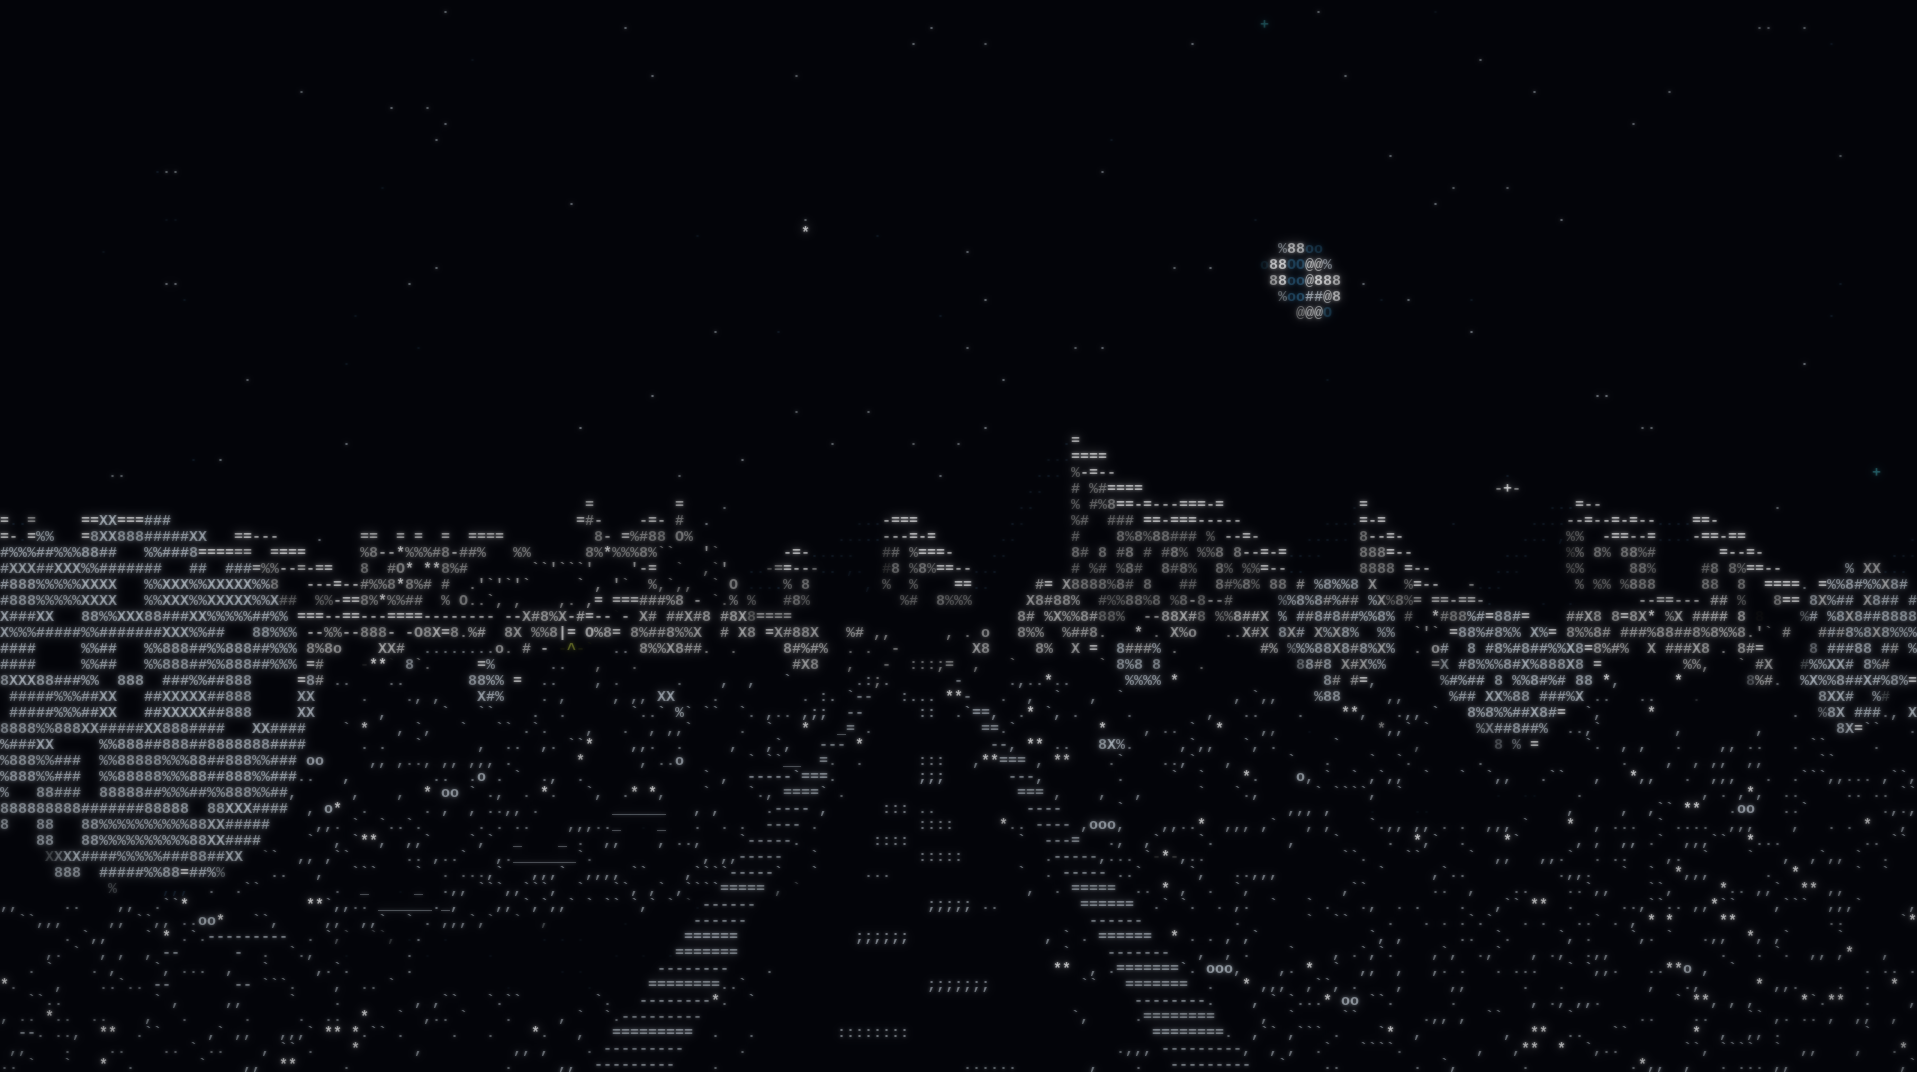
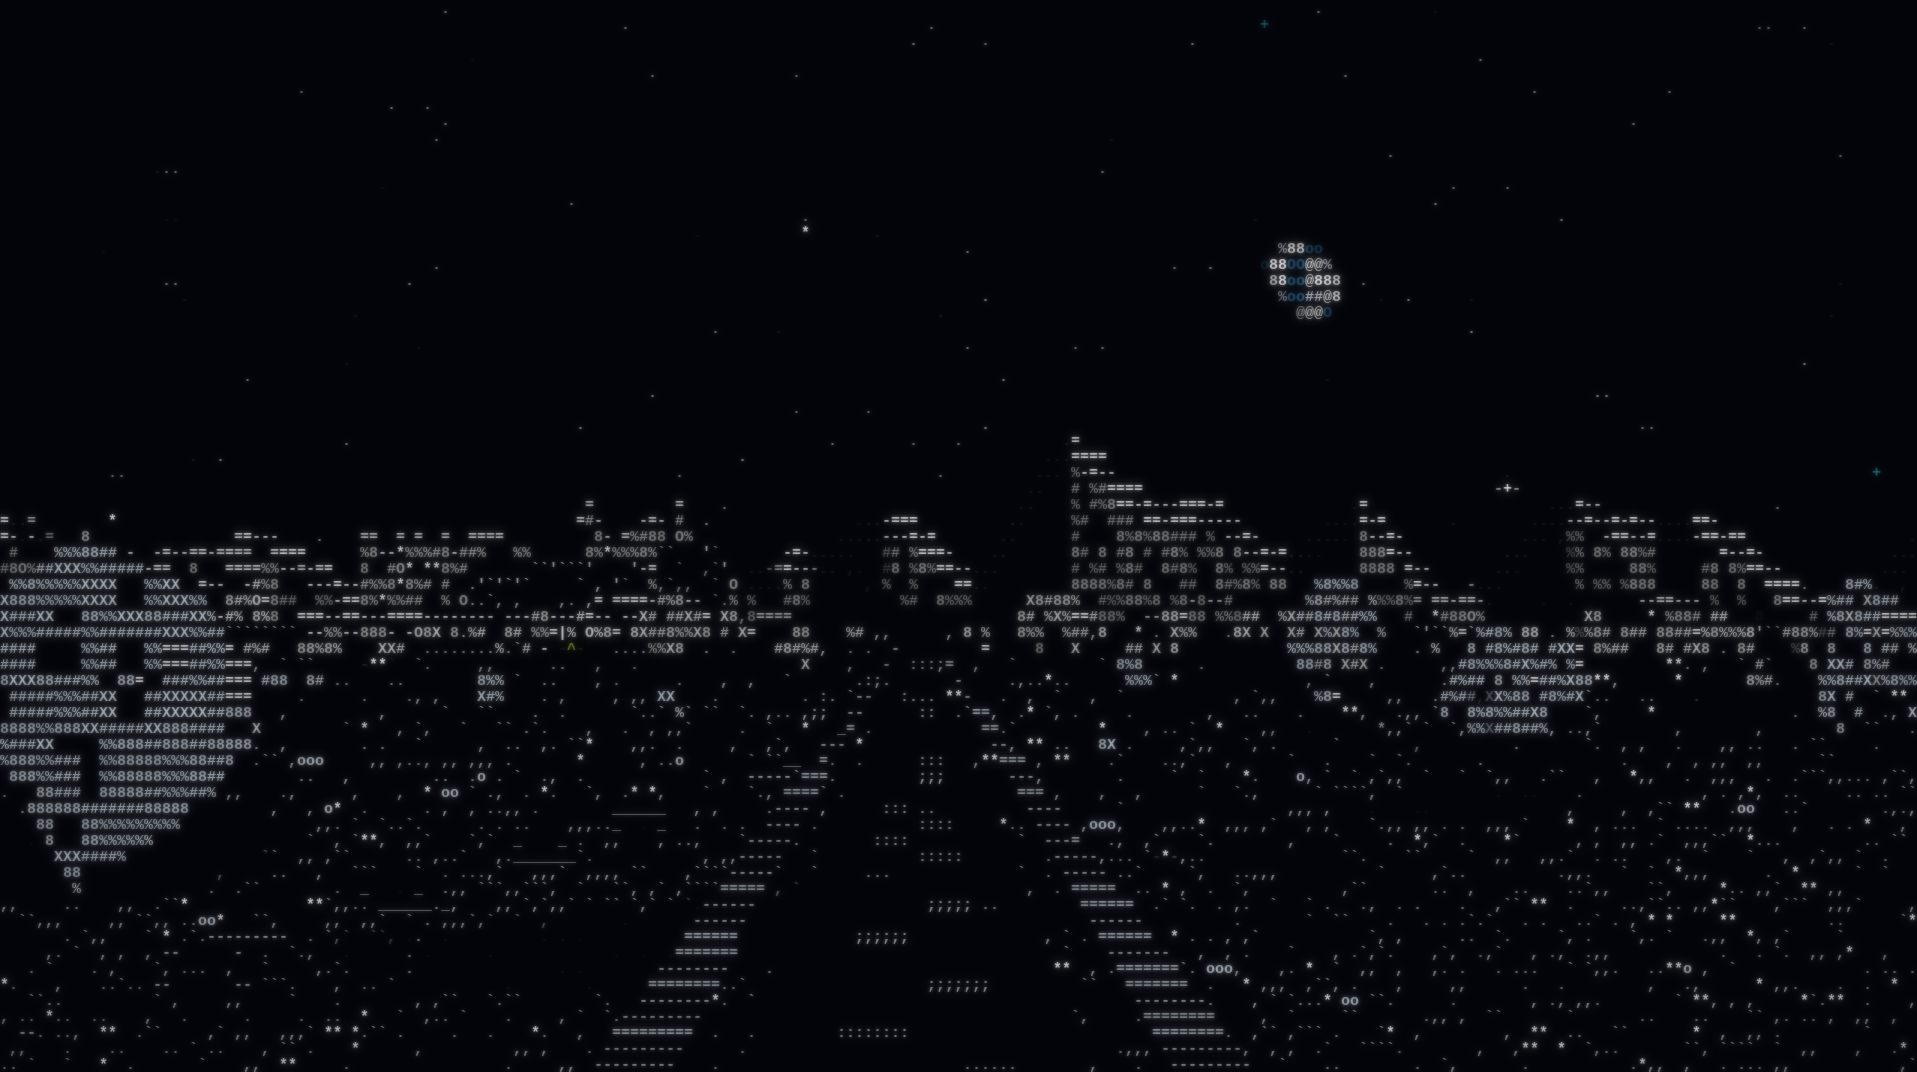
Two storeys on the frontier, and no round rocks on the Moon
TALL BUILDINGS IN AN 1880S TOWN. surf_west's facade stacked its window
band with `storey = floor(uy / st.up)` and no cap, so it drew as many
rows of glass as the map gave it height — and city.js's landmark roll
gave it 14-24 m. The result was eight-storey window grids on a main
street. The facade now draws two storeys and nothing above them, so a
tall building is a false front or a tower of blank boarded wall, which
is what a tall frontier building is. Landmarks come down to 9-14 m and
get rarer; the verticality that world is entitled to comes off the roof
in the crowns element. Every cell over 12 m is now rock, not building.

MINI MOONS ON THE MOON. moon_ground drew each boulder as a filled disc
with a smooth sphere normal and a specular ring round its limb — which
is a picture of a small moon, scattered a few hundred times across a
lunar plain. Nothing there is round: lunar rocks are impact breccia
with no weathering to wear the corners off. Boulders are now a seven-
vertex polygon with exact chord edges, flat per-facet shading so two
faces of the same rock step hard against each other, and the specular
on whichever facet faces the sun instead of round a limb. The sub-cell
branch stops using 'o', which was the same mistake one scale down.

domshim 288/288, photosensitivity gates pass, city night byte-identical.

diff --git a/src/elements/moon_ground.js b/src/elements/moon_ground.js
@@ -1087,20 +1087,40 @@
   }
 
   /* ---- the rock ------------------------------------------------------------------------------------
-   * A SPHERE WITH A REAL TERMINATOR ON IT, which is worth the eight lines it costs. Every other
-   * object in the frontier is a flat face with one normal and is lit or not; a boulder presents
-   * every normal at once, and the line where the surface turns away from the sun is the only thing
-   * that says it is round. The normal at a screen offset (u, v) inside the disc is
+   * AN ANGULAR FRAGMENT, AND EMPHATICALLY NOT A SPHERE. The first cut of this drew each boulder as a
+   * filled disc — `r2 = u*u + v*v; if (r2 > 1) continue;` — with a smooth sphere normal
+   * (u*right - v*up + sqrt(1-r2)*(-viewdir)) and a specular ring round its limb. The arithmetic was
+   * right and the object was wrong: what it produced was a small round grey body with a terminator
+   * across it and a bright rim, which is a picture of a MOON. Scattering a few hundred of them
+   * across a lunar plain read exactly as it sounds.
    *
-   *     n = u*right - v*up + sqrt(1 - u^2 - v^2) * (-viewdir)
+   * Nothing on the Moon is round. Lunar surface rocks are impact breccia and fractured basalt:
+   * they are chipped, they are faceted, and they have corners. There is also no weathering to round
+   * them off — no water, no wind, no frost — so a fragment that broke ten million years ago still
+   * has the shape it broke in. A sphere is the one silhouette that cannot occur.
    *
-   * — the first two terms are the tangent plane, the third is how far the surface bulges toward the
-   * eye — and n.sun is the whole lighting model.
+   * So the outline is a POLYGON: seven vertices at hashed radii, with straight chords between them,
+   * and the boundary radius along any ray is the exact chord intersection rather than a constant.
+   * The shading is FLAT PER FACET — one normal for each sector, held constant across it — which is
+   * what puts a hard-edged tonal step between two faces of the same rock and is the single thing
+   * that says "angular" at character resolution. The specular is on the facet that happens to face
+   * the sun rather than round a limb, because a facet catches the light and a limb is a thing
+   * spheres have.
    *
-   * WITH THE SUN BEHIND THE WALK, MOST ROCKS ARE FULLY LIT AND THE TERMINATOR IS OFF THE LIMB. That
-   * is not a bug and it is not a waste: it is exactly what down-sun Apollo photography looks like,
-   * it is why the crews were told to shoot down-sun, and it is why the shadows above have to carry
-   * the relief. Turn round and the same rocks are black cut-outs. */
+   * WITH THE SUN BEHIND THE WALK, MOST ROCKS ARE FULLY LIT AND ONLY ONE OR TWO FACETS TURN AWAY.
+   * That is not a bug and not a waste: it is what down-sun Apollo photography looks like, it is why
+   * the crews were told to shoot down-sun, and it is why the shadows above carry the relief. Turn
+   * round and the same rocks are black cut-outs with a chipped edge. */
+  var NFACET = 7, TAU_F = 6.283185307;
+  /* Facet scratch, allocated once for the life of the page: drawRock runs for every rock in the
+   * frame and this file is allocation-free in draw() by contract. */
+  var FU = new Float64Array(NFACET), FV = new Float64Array(NFACET), FB = new Float64Array(NFACET);
+
+  /* The vertex radius of facet k, 0.58-1.00 of the rock's nominal size. The spread is what stops
+   * seven equal radii from being a heptagon, which at this cell size is a circle again. */
+  function facetR(k, sd) {
+    return 0.58 + hash2(((k % NFACET) + NFACET) % NFACET, 3, sd ^ 0x5C13) * 0.42;
+  }
   function drawRock(f, px, pz, r, sX, sZ, sd) {
     if (!project(px, r, pz)) return;
     var cx = PJ.x, cy = PJ.y, d = PJ.d, w = PJ.w;
@@ -1125,7 +1145,11 @@
       if (lk < 0.25) return;
       var hs = hash2(Math.floor(px * 4), Math.floor(pz * 4), sd ^ 0x71);
       var l1 = litOf(0.55 + hs * 0.45, d, hs);
-      emit(f, Math.floor(cx), Math.floor(cy), hs < 0.4 ? G_o : G_DOT, l1.col, l1.lum * lk, d);
+      /* NOT G_o. At one cell the glyph IS the silhouette, and 'o' is a ring — the same mistake as
+       * the disc one scale up. A chip of rock under a cell across is a blob of ink, which is what
+       * '%' and '8' are and what '.' is when it is smaller still. */
+      emit(f, Math.floor(cx), Math.floor(cy), hs < 0.35 ? G_PCT : (hs < 0.7 ? G_8 : G_DOT),
+           l1.col, l1.lum * lk, d);
       return;
     }
 
@@ -1142,16 +1166,53 @@
     if (x0 + dx1 > V.cols - 1) dx1 = V.cols - 1 - x0;
     if (y0 + dy0 < 0) dy0 = -y0;
     if (y0 + dy1 > V.rows - 1) dy1 = V.rows - 1 - y0;
+    /* The seven facet normals, resolved once per rock rather than once per cell. Each is the
+     * outward direction of its own chord, tilted toward the eye by a hashed amount so no two faces
+     * of the same rock catch the light equally — which is the whole read. `nb` is how far the facet
+     * leans toward the viewer; a low value is a face seen almost edge-on and it is what makes one
+     * side of a rock go dark while the rest stays lit. */
+    var fu = FU, fv = FV, fb = FB, fk;
+    for (fk = 0; fk < NFACET; fk++) {
+      var mid = (fk + 0.5) * TAU_F / NFACET;
+      var lean = 0.34 + hash2(fk, 7, sd ^ 0x6D2) * 0.52;
+      var cxn = Math.cos(mid) * lean, cyn = Math.sin(mid) * lean;
+      var cbn = Math.sqrt(1 - lean * lean * 0.92);
+      var nn = Math.sqrt(cxn * cxn + cyn * cyn + cbn * cbn);
+      fu[fk] = cxn / nn; fv[fk] = cyn / nn; fb[fk] = cbn / nn;
+    }
+    /* Which facet is most nearly square-on to the sun; that one gets the specular, in place of the
+     * limb ring a sphere would have had. */
+    var bestF = 0, bestD = -2;
+    for (fk = 0; fk < NFACET; fk++) {
+      var bd = fu[fk] * sr - fv[fk] * su + fb[fk] * sf;
+      if (bd > bestD) { bestD = bd; bestF = fk; }
+    }
+
     for (dy = dy0; dy <= dy1; dy++) {
       for (dx = dx0; dx <= dx1; dx++) {
         var u = (x0 + dx - cx) / rw, v = (y0 + dy - cy) / rh;
         var r2 = u * u + v * v;
-        if (r2 > 1.0) continue;
-        var bulge = Math.sqrt(1 - r2);
-        /* Per-cell depth: the near face of the sphere, so the rock's own silhouette does not
-         * overwrite the ground in front of its base. */
+        if (r2 > 1.0) continue;                        // cheap reject before the polygon test
+        /* ---- THE POLYGON, and it is an exact chord intersection rather than a stepped radius.
+         * Quantising the boundary to one radius per sector gives a shape made of arcs, which is a
+         * circle with dents in it; the straight chord between two vertices is what gives a rock a
+         * flat edge and a corner. For a ray at angle t between vertices at a0 and a1 with radii r0
+         * and r1, the chord is hit at  r0*r1*sin(d) / (r0*sin(t-a0) + r1*sin(a1-t)). */
+        var ang = Math.atan2(v, u); if (ang < 0) ang += TAU_F;
+        var tt = ang * NFACET / TAU_F;
+        var kk0 = Math.floor(tt), ff = tt - kk0;
+        var a0 = kk0 * TAU_F / NFACET, dA = TAU_F / NFACET;
+        var r0 = facetR(kk0, sd), r1 = facetR(kk0 + 1, sd);
+        var den = r0 * Math.sin(ff * dA) + r1 * Math.sin(dA - ff * dA);
+        var lim = den > 1e-6 ? (r0 * r1 * Math.sin(dA)) / den : 1;
+        if (r2 > lim * lim) continue;
+
+        var fi = kk0 % NFACET;
+        /* Per-cell depth: a mild bulge, for ordering only — enough that the rock's own silhouette
+         * does not overwrite the ground in front of its base, without reintroducing a sphere. */
+        var bulge = (1 - r2) * 0.55;
         var dd = d - bulge * r;
-        var dot = u * sr - v * su + bulge * sf;
+        var dot = fu[fi] * sr - fv[fi] * su + fb[fi] * sf;
         var litK = clamp(0.5 + 3.0 * dot, 0, 1);
         /* Keyed on the rock's own surface parameterisation, not on the screen cell: the field has to
          * be welded to the rock or it crawls as the camera walks past. It is not perfect — u and v
@@ -1172,7 +1233,11 @@
          * fracture plane and is a genuine specular. About 6% of the painted cells of an object that
          * is itself a small part of the frame, which is where a slice of the print's hot budget is
          * meant to come from. */
-        if (r2 > 0.80 && hv < 0.30) {
+        /* THE SPECULAR IS ON A FACET, NOT ROUND A LIMB. `r2 > 0.80` put a bright annulus at the
+         * edge of every rock, which is the single most sphere-like mark available and was half of
+         * why these read as little moons. A fracture plane that happens to face the sun glints;
+         * that is one face of the rock, and it is a patch rather than a ring. */
+        if (fi === bestF && bestD > 0.15 && hv < 0.26) {
           var ls = specOf(0.55 + hv, d);
           emit(f, x0 + dx, y0 + dy, G_EQ, ls.col, ls.lum * soft, dd);
           continue;

diff --git a/index.html b/index.html
@@ -824,7 +824,7 @@ var CC = (function () {
 
     DIST_WEST = [
       { name: 'main',     hue: P.warm,   mix: P.amber,  mixP: 0.72, accent: P.amber, styles: [0, 2, 0, 2],
-        hMin: 6.2, hMax: 10, lit: 0.20, signP: 0.66, landmark: 0.022, w: 0.21,
+        hMin: 6.2, hMax: 10, lit: 0.20, signP: 0.66, landmark: 0.012, w: 0.21,
         vacant: 0.07, butte: 0 },
       { name: 'dust',     hue: P.slate,  mix: P.white,  mixP: 0.74, accent: P.white, styles: [0, 1, 5],
         hMin: 5.0, hMax: 8.5, lit: 0.11, signP: 0.18, landmark: 0.004, w: 0.19,
@@ -837,7 +837,7 @@ var CC = (function () {
         vacant: 0.30, butte: 0.004 },
 
       { name: 'mission',  hue: P.white,  mix: P.amber,  mixP: 0.60, accent: P.spring, styles: [3, 4, 2],
-        hMin: 5.4, hMax: 9.5, lit: 0.14, signP: 0.07, landmark: 0.050, w: 0.07,
+        hMin: 5.4, hMax: 9.5, lit: 0.14, signP: 0.07, landmark: 0.022, w: 0.07,
         vacant: 0.22, butte: 0 },
       { name: 'range',    hue: P.slate,  mix: P.ember,  mixP: 0.62, accent: P.ember, styles: [4, 1, 4],
         hMin: 4.4, hMax: 7.5, lit: 0.06, signP: 0.02, landmark: 0.000, w: 0.26,
@@ -904,7 +904,8 @@ var CC = (function () {
     alleyMin: 9, alleyP: 0.52, alleyDeepMin: 10, alleyDeepP: 0.40,
     plazaP: 0.20, plazaBigP: 0.34, plazaR: 6, plazaRVar: 9,
     vacant: 0.14, setbackP: 0.68, podMin: 0, podVar: 0, falseFront: 1,
-    lmMin: 14, lmVar: 10, crownTall: 13, DG: 34, sky: 1,
+
+    lmMin: 9, lmVar: 5, crownTall: 13, DG: 34, sky: 1,
     butteMin: 9, butteVar: 23, rockStyle: 6,
     styleCh: STYLE_CH_WEST, signCh: SIGN_CH_WEST, styleBase: 0,
     setbackMode: 'falsefront', signShape: 'board', signPalette: 'painted'
@@ -3023,7 +3024,8 @@ var CC = (function () {
     var uy = v - (st.gnd + 0.52);
     var storey = Math.floor(uy / st.up);
     var sv = uy - storey * st.up;
-    if (storey >= 0 && sv > 0.55 && sv < 0.55 + st.winH) {
+
+    if (storey >= 0 && storey < 2 && sv > 0.55 && sv < 0.55 + st.winH) {
       var cw = st.winW / st.bay, c0 = 0.5 - cw * 0.5, c1 = 0.5 + cw * 0.5;
       if (fu > c0 && fu < c1) {
         var wh = hash2(bay * 7 + storey, sd, 0x8D2);
@@ -6400,6 +6402,13 @@ var CC = (function () {
     }
   }
 
+  var NFACET = 7, TAU_F = 6.283185307;
+
+  var FU = new Float64Array(NFACET), FV = new Float64Array(NFACET), FB = new Float64Array(NFACET);
+
+  function facetR(k, sd) {
+    return 0.58 + hash2(((k % NFACET) + NFACET) % NFACET, 3, sd ^ 0x5C13) * 0.42;
+  }
   function drawRock(f, px, pz, r, sX, sZ, sd) {
     if (!project(px, r, pz)) return;
     var cx = PJ.x, cy = PJ.y, d = PJ.d, w = PJ.w;
@@ -6420,7 +6429,9 @@ var CC = (function () {
       if (lk < 0.25) return;
       var hs = hash2(Math.floor(px * 4), Math.floor(pz * 4), sd ^ 0x71);
       var l1 = litOf(0.55 + hs * 0.45, d, hs);
-      emit(f, Math.floor(cx), Math.floor(cy), hs < 0.4 ? G_o : G_DOT, l1.col, l1.lum * lk, d);
+
+      emit(f, Math.floor(cx), Math.floor(cy), hs < 0.35 ? G_PCT : (hs < 0.7 ? G_8 : G_DOT),
+           l1.col, l1.lum * lk, d);
       return;
     }
 
@@ -6432,15 +6443,43 @@ var CC = (function () {
     if (x0 + dx1 > V.cols - 1) dx1 = V.cols - 1 - x0;
     if (y0 + dy0 < 0) dy0 = -y0;
     if (y0 + dy1 > V.rows - 1) dy1 = V.rows - 1 - y0;
+
+    var fu = FU, fv = FV, fb = FB, fk;
+    for (fk = 0; fk < NFACET; fk++) {
+      var mid = (fk + 0.5) * TAU_F / NFACET;
+      var lean = 0.34 + hash2(fk, 7, sd ^ 0x6D2) * 0.52;
+      var cxn = Math.cos(mid) * lean, cyn = Math.sin(mid) * lean;
+      var cbn = Math.sqrt(1 - lean * lean * 0.92);
+      var nn = Math.sqrt(cxn * cxn + cyn * cyn + cbn * cbn);
+      fu[fk] = cxn / nn; fv[fk] = cyn / nn; fb[fk] = cbn / nn;
+    }
+
+    var bestF = 0, bestD = -2;
+    for (fk = 0; fk < NFACET; fk++) {
+      var bd = fu[fk] * sr - fv[fk] * su + fb[fk] * sf;
+      if (bd > bestD) { bestD = bd; bestF = fk; }
+    }
+
     for (dy = dy0; dy <= dy1; dy++) {
       for (dx = dx0; dx <= dx1; dx++) {
         var u = (x0 + dx - cx) / rw, v = (y0 + dy - cy) / rh;
         var r2 = u * u + v * v;
         if (r2 > 1.0) continue;
-        var bulge = Math.sqrt(1 - r2);
 
+        var ang = Math.atan2(v, u); if (ang < 0) ang += TAU_F;
+        var tt = ang * NFACET / TAU_F;
+        var kk0 = Math.floor(tt), ff = tt - kk0;
+        var a0 = kk0 * TAU_F / NFACET, dA = TAU_F / NFACET;
+        var r0 = facetR(kk0, sd), r1 = facetR(kk0 + 1, sd);
+        var den = r0 * Math.sin(ff * dA) + r1 * Math.sin(dA - ff * dA);
+        var lim = den > 1e-6 ? (r0 * r1 * Math.sin(dA)) / den : 1;
+        if (r2 > lim * lim) continue;
+
+        var fi = kk0 % NFACET;
+
+        var bulge = (1 - r2) * 0.55;
         var dd = d - bulge * r;
-        var dot = u * sr - v * su + bulge * sf;
+        var dot = fu[fi] * sr - fv[fi] * su + fb[fi] * sf;
         var litK = clamp(0.5 + 3.0 * dot, 0, 1);
 
         var hv = hash2(Math.floor((u + 1.2) * 9), Math.floor((v + 1.2) * 9), sd ^ 0x72);
@@ -6453,7 +6492,7 @@ var CC = (function () {
         }
         var soft = softOf(edge);
 
-        if (r2 > 0.80 && hv < 0.30) {
+        if (fi === bestF && bestD > 0.15 && hv < 0.26) {
           var ls = specOf(0.55 + hv, d);
           emit(f, x0 + dx, y0 + dy, G_EQ, ls.col, ls.lum * soft, dd);
           continue;

diff --git a/src/city.js b/src/city.js
@@ -172,7 +172,7 @@
      */
     DIST_WEST = [
       { name: 'main',     hue: P.warm,   mix: P.amber,  mixP: 0.72, accent: P.amber, styles: [0, 2, 0, 2],
-        hMin: 6.2, hMax: 10, lit: 0.20, signP: 0.66, landmark: 0.022, w: 0.21,
+        hMin: 6.2, hMax: 10, lit: 0.20, signP: 0.66, landmark: 0.012, w: 0.21,
         vacant: 0.07, butte: 0 },
       { name: 'dust',     hue: P.slate,  mix: P.white,  mixP: 0.74, accent: P.white, styles: [0, 1, 5],
         hMin: 5.0, hMax: 8.5, lit: 0.11, signP: 0.18, landmark: 0.004, w: 0.19,
@@ -187,7 +187,7 @@
        * spring is the cottonwood, and it carries the church — landmark 0.05 is by far the highest
        * in either world, because a mission IS its bell tower. */
       { name: 'mission',  hue: P.white,  mix: P.amber,  mixP: 0.60, accent: P.spring, styles: [3, 4, 2],
-        hMin: 5.4, hMax: 9.5, lit: 0.14, signP: 0.07, landmark: 0.050, w: 0.07,
+        hMin: 5.4, hMax: 9.5, lit: 0.14, signP: 0.07, landmark: 0.022, w: 0.07,
         vacant: 0.22, butte: 0 },
       { name: 'range',    hue: P.slate,  mix: P.ember,  mixP: 0.62, accent: P.ember, styles: [4, 1, 4],
         hMin: 4.4, hMax: 7.5, lit: 0.06, signP: 0.02, landmark: 0.000, w: 0.26,
@@ -291,7 +291,11 @@
     alleyMin: 9, alleyP: 0.52, alleyDeepMin: 10, alleyDeepP: 0.40,
     plazaP: 0.20, plazaBigP: 0.34, plazaR: 6, plazaRVar: 9,
     vacant: 0.14, setbackP: 0.68, podMin: 0, podVar: 0, falseFront: 1,
-    lmMin: 14, lmVar: 10, crownTall: 13, DG: 34, sky: 1,
+    /* 9-14 m, down from 14-24. A "landmark" out here is a church, a hotel or a livery barn — three
+     * storeys at the outside — and the tower on top of it belongs to the crowns element rather than
+     * to the lot's own height. At 14-24 the map was emitting eight-storey buildings and surf_west's
+     * facade was dutifully drawing eight storeys of windows on them. */
+    lmMin: 9, lmVar: 5, crownTall: 13, DG: 34, sky: 1,
     butteMin: 9, butteVar: 23, rockStyle: 6,
     styleCh: STYLE_CH_WEST, signCh: SIGN_CH_WEST, styleBase: 0,
     setbackMode: 'falsefront', signShape: 'board', signPalette: 'painted'

diff --git a/src/surf_west.js b/src/surf_west.js
@@ -387,7 +387,17 @@
     var uy = v - (st.gnd + 0.52);
     var storey = Math.floor(uy / st.up);
     var sv = uy - storey * st.up;
-    if (storey >= 0 && sv > 0.55 && sv < 0.55 + st.winH) {
+    /* ---- TWO STOREYS OF WINDOWS AND NOT ONE MORE -------------------------------------------------
+     * This loop had no cap, so it repeated its window band all the way up whatever height city.js
+     * handed it — and city.js's `landmark` roll hands it 14-24 m. The result was an eight-storey
+     * grid of lit windows on a frontier main street: an apartment block, in 1880, and the single
+     * most wrong thing in that world.
+     *
+     * A frontier building is two storeys. What makes the tall ones tall is a FALSE FRONT or a
+     * TOWER, and both of those are blank boarded wall — which is what falling through to board()
+     * below gives, for free. The verticality that world is entitled to comes from the crowns
+     * element on the roof (a steeple, a water tank, a windmill), not from more rows of glass. */
+    if (storey >= 0 && storey < 2 && sv > 0.55 && sv < 0.55 + st.winH) {
       var cw = st.winW / st.bay, c0 = 0.5 - cw * 0.5, c1 = 0.5 + cw * 0.5;
       if (fu > c0 && fu < c1) {
         var wh = hash2(bay * 7 + storey, sd, 0x8D2);

diff --git a/README.md b/README.md
@@ -127,9 +127,13 @@ The same machinery, told to be somewhere else. The street lattice, the walk, the
 the crowd, the cat and every optic are shared; the map generator, the texture layer, the weather
 table and about a third of the elements are the frontier's own.
 
-- **The town** is timber. False fronts — a flat board wall carried a metre and a half above the
-  building's own roofline so it looks bigger from the street — clapboard, board-and-batten, adobe
-  and fieldstone, in six quarters from the main street to the mission.
+- **The town** is timber and it is TWO STOREYS. False fronts — a flat board wall carried a metre
+  and a half above the building's own roofline so it looks bigger from the street — clapboard,
+  board-and-batten, adobe and fieldstone, in six quarters from the main street to the mission.
+  Nothing gets a third row of windows: the facade draws two and everything above them is blank
+  boarded wall, so a tall building reads as a false front or a tower rather than as a block of
+  flats. What verticality the world has comes off the roof — a steeple, a water tank, a windmill —
+  and the tallest things in it are rock.
 - **Open range.** A quarter of the ground is a district that is mostly not a district: empty lots,
   sagebrush, saguaro, and one lot in fourteen carrying a flat-topped sandstone butte.
 - **The light.** One low sun in a fixed direction, and every wall in the world is either rimmed in
